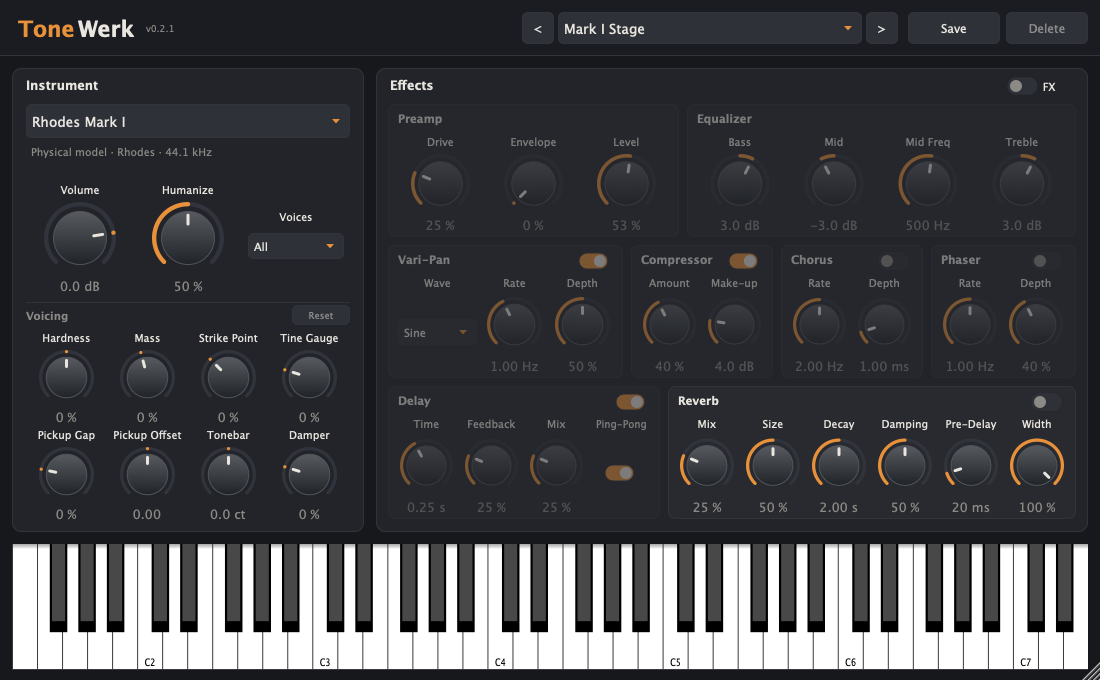
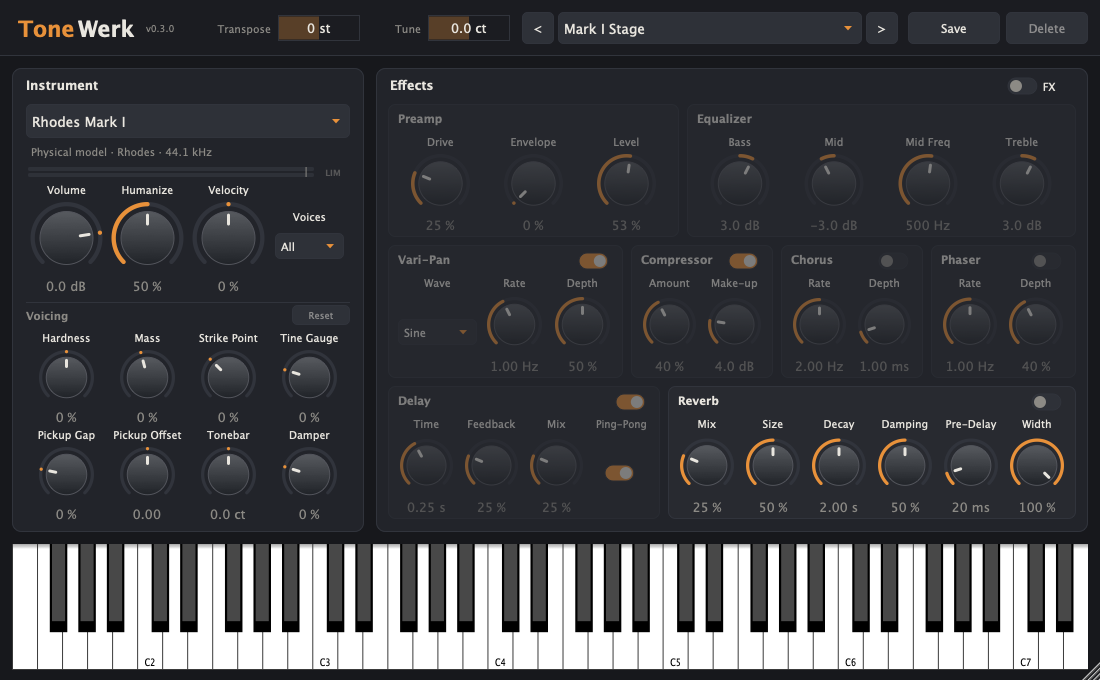
Release 0.3.0: version, release notes, screenshot

diff --git a/packaging/RELEASE_NOTES.md b/packaging/RELEASE_NOTES.md
@@ -1,29 +1,45 @@
-A maintenance release: a tuning fix for the Splendid Grand, quieter attacks on three Rhodes models and a preset level.
+Playing and fitting: voicing changes no longer cut notes off, the plugin adapts to your keyboard and your band's pitch, and there are fifteen more presets.
 
-![ToneWerk](https://github.com/Michi71/ToneWerk/raw/v0.2.1/docs/images/tonewerk.png)
+![ToneWerk](https://github.com/Michi71/ToneWerk/raw/v0.3.0/docs/images/tonewerk.png)
 
-▶ [Watch the video](https://youtu.be/U0xUk3iMI5s): the factory presets one after the other, three minutes.
+▶ [Watch the video](https://youtu.be/U0xUk3iMI5s): the first fourteen factory presets one after the other, three minutes (recorded with 0.2.1).
 
 ## What is new
 
-- **Splendid Grand Piano:** B♭4 was out of tune: its fundamental was split in two and the tail ended about two thirds of a
-  semitone flat. The bank is rebuilt from recordings transposed to each key's pitch, which also removes a smaller detune
-  between the velocity layers of a few other keys.
-- **Rhodes Mark I, Mark V, Mark 7:** a click in the attack of some keys in the upper middle range is gone (the upper tonebar
-  mode is muted there).
-- **Factory preset Clavinet Funk:** 4 dB quieter; it reached the soft clip even when played softly.
-- **Demo:** `demo/ToneWerk-Demo.mid` in the repository walks through the factory presets (the MIDI file of the video).
+- **Voicing without a cut:** turning a voicing control (or changing **Voices**) no longer stops what sounds. The notes ring
+  out with the voicing they were struck with, pedal and key releases included, while every new strike plays the new one.
+- **Velocity:** a new control next to Humanize bends the velocity curve (−100 … +100 %), to fit the plugin to your keyboard:
+  positive values make a light touch play louder, negative ones softer.
+- **Transpose and Tune**, in the header: the keys shifted by up to an octave, and the pitch of the whole instrument by up to
+  ±100 cents (A = 432 Hz is −31.8 cents).
+- **Level meter:** the output peak of each channel under the instrument's name, with the limiter's threshold marked;
+  **LIM** lights while the limiter holds a peak back.
+- **Fifteen more factory presets** that use the voicing and the new controls: Mark I Bark, Mark I Ballad, Mark II Suitcase
+  Tremolo, Mark V Glass, Sparkle Top Dream, Wurlitzer Overdrive, Wurlitzer Tremolo, Pianet Echo, Clavinet Octave Bass,
+  Clavinet Phaser, Splendid Grand Intimate, Salamander Concert Hall, Salamander A=432, Honky-Tonk Upright, Felt Upright.
+  They follow the old ones in the list, so the MIDI programs 0–13 are what they were.
+- **Tooltips** say what each control does, the voicing controls in the words of the loaded instrument.
+- **Effects on a mono output:** the FX switch did nothing on a mono track. The chain now runs there too (the Vari-Pan
+  becomes a tremolo).
+- **Latency reported to the host:** about 0.58 ms, the same for every instrument, so recorded notes line up.
 
-Projects and user presets of 0.2.0 load unchanged. For everything that came with 0.2.0 (the instruments, voicing, MIDI
-learn) see the [notes of 0.2.0](https://github.com/Michi71/ToneWerk/releases/tag/v0.2.0).
+## What changes for existing projects
+
+Projects and user presets of 0.2.x load unchanged; the new controls start at their neutral values.
+
+- **Five factory presets are quieter:** Mark I Vari-Pan, Mark II Phaser, Mark 7 Chorus, Mark 8 and Wurlitzer Chorus are
+  2–3.5 dB down, because a chord at a moderate velocity already had the limiter working. A project keeps the level it was
+  saved with; only loading the preset anew gives the lower one.
+- **Timing:** the hybrid voices (Clavinet, the pianos), and the Rhodes and reed pianos at 44.1 kHz, answer about 0.58 ms
+  later than before, so that every instrument has the latency the host is told. In a project the host compensates for it.
 
 ## Downloads
 
 | File | Contents |
 |---|---|
-| `ToneWerk-0.2.1-macOS.zip` | VST3, AU, CLAP, Standalone – universal (Apple Silicon and Intel), macOS 11+ |
-| `ToneWerk-0.2.1-Windows.zip` | VST3, CLAP, Standalone (x64) |
-| `ToneWerk-0.2.1-Linux.zip` | VST3, CLAP, Standalone (x64) |
+| `ToneWerk-0.3.0-macOS.zip` | VST3, AU, CLAP, Standalone – universal (Apple Silicon and Intel), macOS 11+ |
+| `ToneWerk-0.3.0-Windows.zip` | VST3, CLAP, Standalone (x64) |
+| `ToneWerk-0.3.0-Linux.zip` | VST3, CLAP, Standalone (x64) |
 
 Each zip contains the licence (`LICENSE.txt`) and the credits of the recordings the hybrid voices are built from
 (`CREDITS.md`).
@@ -37,7 +53,10 @@ Copy the plugin formats to the usual folders: macOS `~/Library/Audio/Plug-Ins/VS
 
 - The builds are **not signed**. macOS: `xattr -dr com.apple.quarantine <plugin or app>`; Windows SmartScreen asks for
   confirmation.
-- Changing a voicing control rebuilds the instrument; sounding notes stop.
+- While notes ring out after a voicing change, two instruments compute. A further change in that time fades the ringing
+  notes out, and switching the instrument fades as before.
+- A change of **Tune** rebuilds the instrument like a voicing control, and the decay times change with the pitch (by 6 %
+  at most).
 
 ## Licence
 

diff --git a/README.md b/README.md
@@ -2,7 +2,7 @@
 
 [![ToneWerk: preset bar, instrument and voicing, the MK8 effect chain and reverb, the keyboard of the instrument – click for the video](docs/images/tonewerk.png)](https://youtu.be/U0xUk3iMI5s)
 
-▶ [Watch the video](https://youtu.be/U0xUk3iMI5s): the factory presets one after the other, three minutes.
+▶ [Watch the video](https://youtu.be/U0xUk3iMI5s): the first fourteen factory presets one after the other, three minutes.
 
 Electric and acoustic keyboards as a plugin and standalone app, with an MK8 effect chain: the Rhodes Mark I, Mark II, Mark V,
 Mark 7, Mark 8 and Sparkle Top and the Wurlitzer 200A and Hohner Pianet T (physical models), and the Hohner Clavinet D6, the
